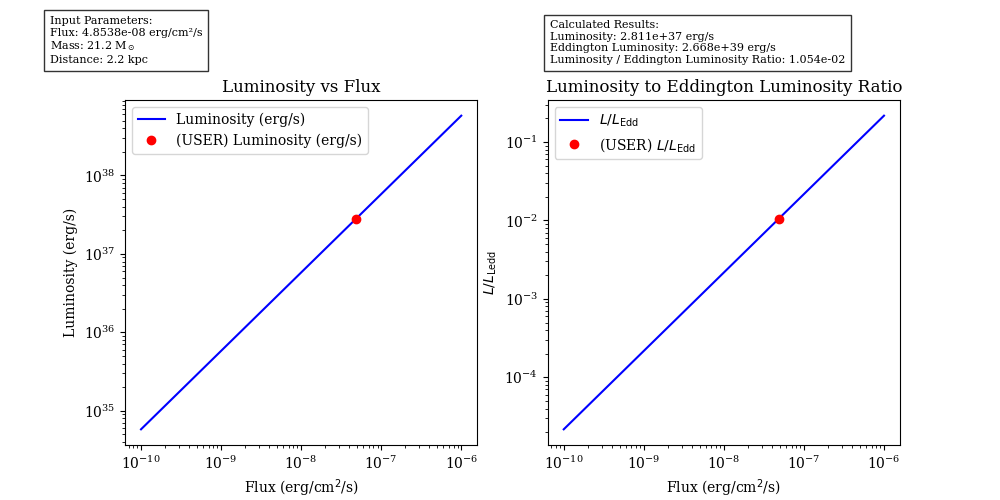
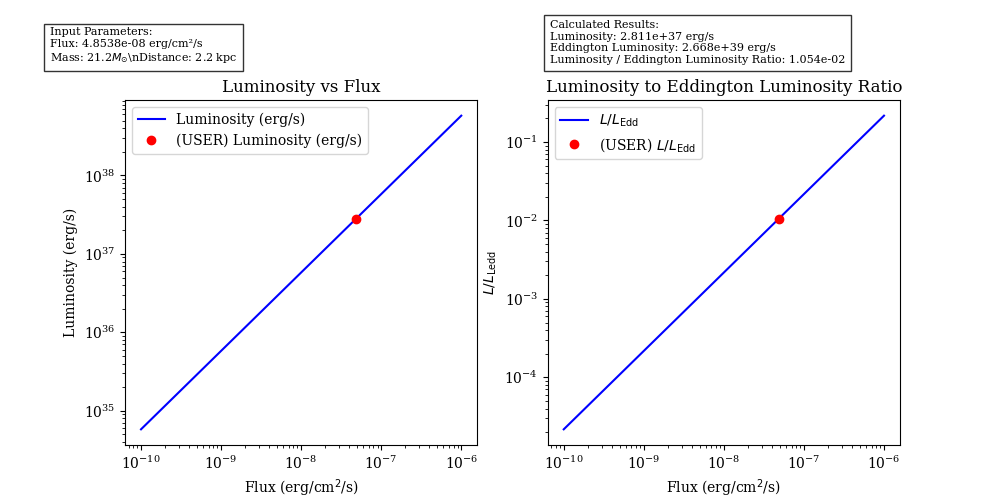
newcyg

Changed region(s): [[0.031, 0.0, 0.248, 0.15]]

diff --git a/astro/util/astro_util_calc_luminosity.py b/astro/util/astro_util_calc_luminosity.py
@@ -98,7 +98,7 @@ def main():
     # 入力パラメータのテキスト表示
     input_text_str = (f"Input Parameters:\n"
                       f"Flux: {flux} erg/cm²/s\n"
-                      f"Mass: {mass_solar} M$_\odot$\n"
+                      f"Mass: {mass_solar}" r"$M_{\odot}$\n"
                       f"Distance: {distance_kpc} kpc")
 
     # 計算結果のテキスト表示
